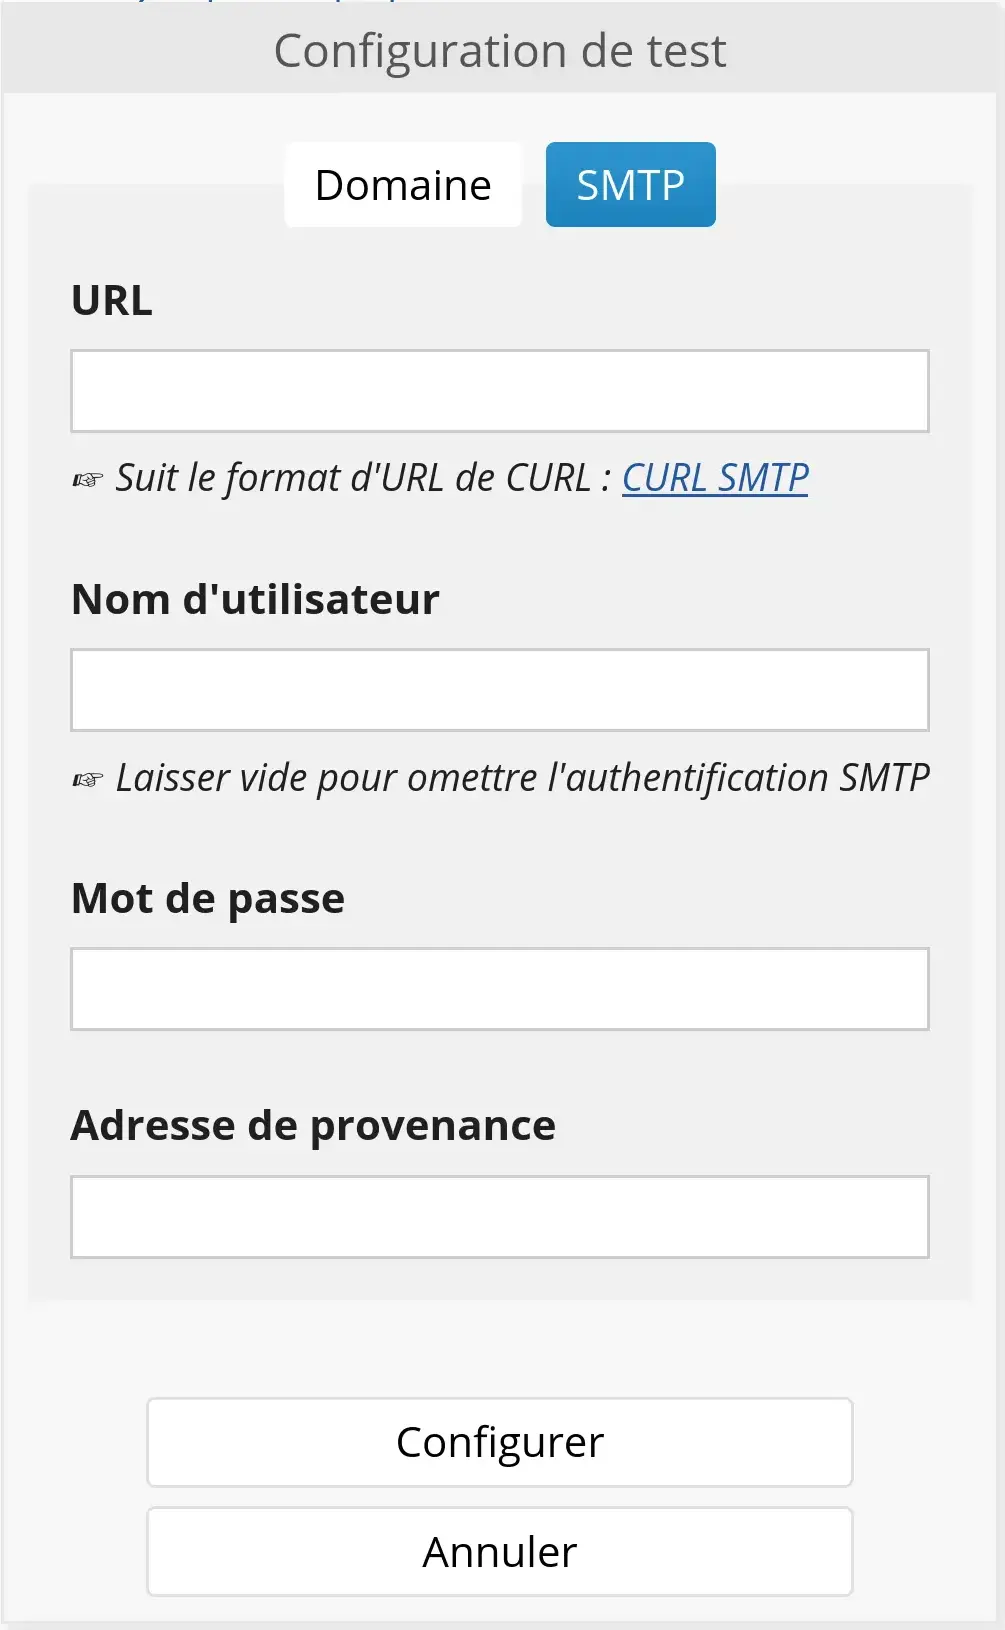
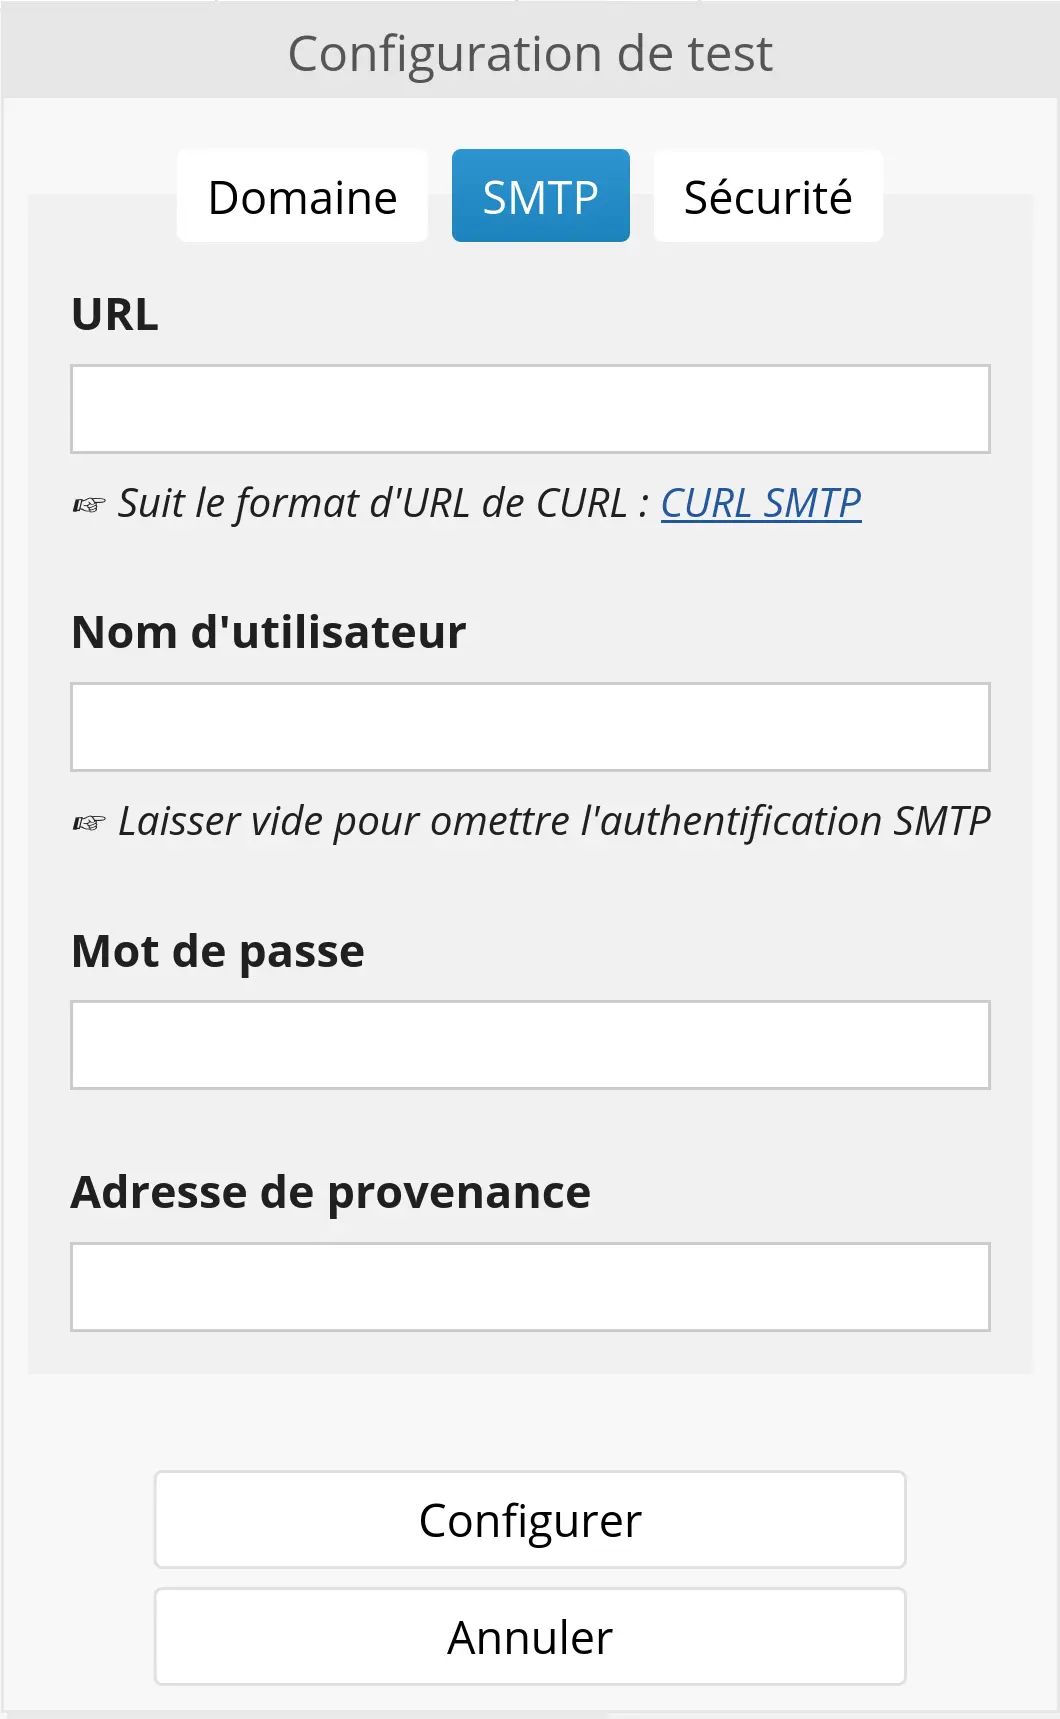
Document password complexity settings

diff --git a/web/goupile.org/fr/pages/setup.md b/web/goupile.org/fr/pages/setup.md
@@ -30,11 +30,32 @@ Ouvrez le panneau de configuration global en cliquant avec le lien "Configurer l
 
 <div class="screenshot"><img src="{{ ASSET static/help/admin/config.webp }}" height="160" alt=""/></div>
 
+> [!NOTE]
+> Certains des paramètres qui suivent peuvent être configurés dans le fichier `goupile.ini`. Quand c'est le cas, les valeurs issues du fichier sont prioritaires et il n'est pas possible de les modifier par le module d'administration.
+
 ## SMTP
 
 Certaines fonctionnalités nécessitent l'envoi de mails (par exemple le système d'inscription personnalisé). Vous devez configurer un serveur SMTP pour permettre l'envoi de mails par Goupile.
 
-<div class="screenshot"><img src="{{ ASSET static/help/admin/smtp.webp }}" height="300" alt=""/></div>
+<div class="screenshot"><img src="{{ ASSET static/help/admin/smtp.webp }}" height="380" alt=""/></div>
 
-> [!NOTE]
-> Les paramètres SMTP peuvent également être configurés par le fichier `goupile.ini`. Si tel est le cas, les valeurs issues du fichier sont prioritaires et il n'est pas possible de les modifier par le module d'administration.
+## Sécurité
+
+L'onglet Sécurité vous permet de paramétrer la politique de mots de passe, en différenciant trois classes d'utilisateurs :
+
+- Les *utilisateurs normaux*
+- Les *administrateurs* ont des droits d'administration sur au moins un projet
+- Les *super-administrateurs* ont tous les droits sur le domaine Goupile
+
+<div class="screenshot"><img src="{{ ASSET static/help/admin/security.webp }}" height="280" alt=""/></div>
+
+Pour chaque classe d'utilisateur vous pouvez exiger une complexité de mot de passe parmi 3 choix :
+
+- La **complexité légère** impose des mots de passe avec au moins 8 caractères différents
+- La **complexité modérée** impose des mots de passe avec des lettres, des chiffres et des symboles, ou bien un mot de passe de plus de 16 caractères
+- La **complexité élevée** utilise un système de score et de pénalité en fonction des caractères utilisés
+
+> [!WARNING]
+> Cette complexité est imposée lors d'un changement de mot de passe par l'utilisateur, ou lors de chaque connexion pour les administrateurs et les super-administrateurs.
+>
+> En revanche, les administrateurs peuvent créer des utilisateurs dont le mot de passe échappe à ces contraintes.
